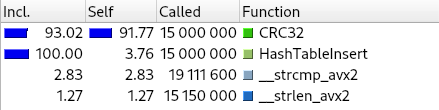
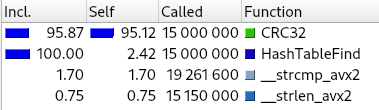
upd readme

diff --git a/hash_table_optimizations/source/hash_table_opt3.c b/hash_table_optimizations/source/hash_table_opt3.c
@@ -4,16 +4,16 @@
 #include <stdlib.h>
 #include <string.h>
 
-#include "../include/hash_table.h"
+#include "../include/hash_table_opt3.h"
 
-static size_t CRC32(char *key, size_t mod);
+static inline size_t CRC32(char *key, size_t mod) __attribute__((always_inline));
 
-static int str_compare(const char *s1, const char *s2);
+static inline int str_compare(const char *s1, const char *s2) __attribute__((always_inline));
 
 static inline struct HashNode *HashNodeCtr(char *key, size_t val) __attribute__((always_inline));
 static inline void HashNodeDtr(struct HashNode *node) __attribute__((always_inline));
 
-static int str_compare(const char *s1, const char *s2)
+static inline int str_compare(const char *s1, const char *s2)
 {
     __m256i mm_s1 = _mm256_loadu_si256((__m256i *)s1);
     __m256i mm_s2 = _mm256_loadu_si256((__m256i *)s2);
@@ -21,7 +21,7 @@ static int str_compare(const char *s1, const char *s2)
 }
 
 
-static size_t CRC32(char *key, size_t mod)
+static inline size_t CRC32(char *key, size_t mod)
 {
     size_t crc = 0;
     asm
@@ -154,20 +154,6 @@ bool HashTableDelete(struct HashTable *table, char *key)
     }
 
     return false;
-}
-
-
-struct HashNode *HashTableFind(struct HashTable *table, char *key)
-{
-    size_t hash = CRC32(key, table->size_max);
-    struct HashList *lst = table->data + hash;
-
-    for(struct HashNode *curr = lst->head->next; curr != NULL; curr = curr->next)
-    {
-        if(str_compare(curr->key, key)) return curr;
-    }
-
-    return NULL;
 }
 
 size_t HashTableGet(struct HashTable *table, char *key)

diff --git a/hash_table_optimizations/source/tester.c b/hash_table_optimizations/source/tester.c
@@ -4,7 +4,11 @@
 #include <stdlib.h>
 #include <string.h>
 
+#ifndef OPT3
 #include "../include/hash_table.h"
+#else
+#include "../include/hash_table_opt3.h"
+#endif
 
 #define NWORDS 150000
 #define NCYCLES 100
@@ -16,25 +20,35 @@ inline int64_t TimeCounter(void) __attribute__((always_inline));
 
 int main(void)
 {
-    char **words = GetWords();
-
     struct HashTable *table = HashTableCtr(TABLE_SZ);
+
+    char **words = GetWords();
+    for(size_t j = 0; j < NWORDS; j++)
+    {
+        volatile bool is_inserted = HashTableInsert(table, words[j], 0);
+    }
+
     int64_t start = TimeCounter();
     for(size_t i = 0; i < NCYCLES; i++)
     {
         for(size_t j = 0; j < NWORDS; j++)
         {
-            volatile bool is_inserted = HashTableInsert(table, words[j], 0);
+            volatile struct HashNode *finded = HashTableFind(table, words[j]);
         }
     }
     int64_t end = TimeCounter();
-    table = HashTableDtr(table);
 
+    fprintf(stderr, "\n\n<time measured: %ld>\n\n", end - start);
 
     for(size_t i = 0; i < NWORDS; i++) free(words[i]);
     free(words);
 
-    fprintf(stderr, "\n\n<time measured: %ld>\n\n", end - start);
+
+    for(size_t i = 0; i < table->size_max; i++)
+    {
+        printf("%zu\n", table->data[i].size);
+    }
+    table = HashTableDtr(table);
 }
 
 inline int64_t TimeCounter(void)

diff --git a/hash_table_optimizations/include/hash_table_opt3.h b/hash_table_optimizations/include/hash_table_opt3.h
@@ -1,0 +1,48 @@
+#ifndef HASH_TABLE_HPP
+#define HASH_TABLE_HPP
+
+#include <stddef.h>
+#include <stdbool.h>
+
+#define MAX_KEY_LEN 32
+
+struct HashNode;
+struct HashList;
+struct HashTable;
+
+struct HashNode
+{
+    char *key;
+    size_t val;
+
+    struct HashNode *next;
+};
+
+struct HashList
+{
+    size_t size;
+    struct HashNode *head;
+};
+
+struct HashTable
+{
+    size_t size;
+    size_t size_max;
+
+    struct HashList *data;
+    struct HashNode *lists;
+};
+
+
+struct HashTable *HashTableCtr(size_t table_sz);
+struct HashTable *HashTableDtr(struct HashTable *table);
+
+
+bool HashTableInsert(struct HashTable *table, char *key, size_t val);
+bool HashTableDelete(struct HashTable *table, char *key);
+
+
+extern struct HashNode *HashTableFind(struct HashTable *table, char *key);
+size_t HashTableGet(struct HashTable *table, char *key);
+
+#endif //HASH_TABLE_HPP

diff --git a/README.md b/README.md
@@ -113,17 +113,17 @@ size_t HashFuncCheckSum(char *key, size_t mod)
 |:-------------------------------------:|:--------------------------------------:|
 |![img](/readme_assets/CheckSumHash.png)|![img](/readme_assets/1CheckSumHash.png)|
 
-Как видно из графика, результаты оказались плохими, так как в нашем датасете не было слов длины даже больше 30, что даёт самое большее возможное значение хеша в ascii('z') * 30 = 3660, в нашем случае вышло около 2000, но приблизив график была обнаружена возможность равномерного распределения ключей по ячейкам таблицы при достаточно малых размерах таблицы:
-
-![img](/readme_assets/CheckSumHash(small).png)
-
-Разброс оказался довольно большим ввиду большой загруженности таблицы, потому был проведён дополнительный тест, где количество ключей было меньше:
+Как видно из графика, результаты оказались плохими, так как в нашем датасете не было слов длины даже больше 30, что даёт самое большее возможное значение хеша в ascii('z') * 30 = 3660, в нашем случае вышло около 2000, но приблизив график была обнаружена возможность равномерного распределения ключей по ячейкам таблицы при достаточно малых размерах таблицы. Поэтому тест был проведён повторно на таблице размера 512 и 1500 словами:
 
 ![img](/readme_assets/1CheckSumHash(small).png)
 
 Уже получше, но в реальности лучше применять другие хеши, так как данная функция работает приемлемо только на маленьких таблицах, что замедлит работу при большом количестве данных.
 
-Полученные дисперсии составили соответственно $709.3$, $7207.5$ и $2.9$.
+Полученные дисперсии составили соответственно:
+| Тест              | Дисперсия |
+|:-----------------:|----------:|
+| Большая таблица   |   $709.3$ |
+| Маленькая таблица |     $2.9$ |
 
 ### RotLHash
 
@@ -243,17 +243,17 @@ CRC32 показала себя лучше других, к тому же она
 
 ## Оптимизирование хеш-таблицы
 
-Для оптимизации хеш-таблицы таблица заполнялась набором из $150 \cdot 10^3$ слов, а затем операция вставки повторялась ещё 99 раз. Это делалось ввиду того, что все хеш-функции имеют схожий цикл, итерирующий элементы списка коллизии, поэтому можно было рассматривать только одну функцию `HashTableInsert`. Размер таблицы брался $2^{18}$.
+Для оптимизации хеш-таблицы таблица заполнялась набором из $150000$ слов, а затем все слова искались в таблице 100 раз. Размер таблицы брался $2^{18}$, так как при таком подходе мы сможем брать остаток от деления с помощью побитового и, а на распределение хеш-функции crc32 это не влияет.
 
-Запускать тесты будем по 3 раза и измерять среднее количество тактов, измеренное при помощи команды `rdtsc`, флаги компилятора при запуске: `-O1 -mavx2`.
+Запускать тесты будем по 3 раза и измерять среднее количество тактов, измеренное при помощи команды `rdtsc`, флаги компилятора при запуске: `-O0 -mavx2`.
 
-Для оптимизации нужно сначала определить, где программа может вести себя неэффективно, для этого использовалась программа `valgrind`, а точнее профилировщик `callgrind`. Для начала профилирования нужно используется команда `valgrind --tool=callgrind --callgrind-out-file=<out file>   --toggle-collect=HashTableInsert <test.out>`, таким образом мы получим сведения о вызовах функции `HashTableInsert` при исполнении программы `<test.out>` и сохраним их в файле `<out file>`, который можно просмотреть с помощью `kcahcegrind`.
+Для оптимизации нужно сначала определить, где программа может вести себя неэффективно, для этого использовалась программа `valgrind`, а точнее профилировщик `callgrind`. Для начала профилирования нужно используется команда `valgrind --tool=callgrind --callgrind-out-file=<out file>   --toggle-collect=HashTableFind <test.out>`, таким образом мы получим сведения о вызовах функции `HashTableInsert` при исполнении программы `<test.out>` и сохраним их в файле `<out file>`, который можно просмотреть с помощью `kcahcegrind`.
 
 Для начала измерим скорость тестирования без оптимизаций.
 
-| $t_1$       | $t_2$       | $t_3$       | $t_{avg}$               |
-|:-----------:|:-----------:|:-----------:|:-----------------------:|
-| 86486763590 | 86398959414 | 86452134454 | $(8645 ± 3) \cdot 10^7$ |
+| $t_1$             | $t_2$             | $t_3$             | $t_{avg}$               |
+|:-----------------:|:-----------------:|:-----------------:|:-----------------------:|
+| $2077 \cdot 10^7$ | $2073 \cdot 10^7$ | $2071 \cdot 10^7$ | $(2074 ± 2) \cdot 10^7$ |
 
 ### Оптимизация 1 этап
 
@@ -267,9 +267,9 @@ CRC32 показала себя лучше других, к тому же она
 
 Таким образом получившееся время:
 
-| $t_1$       | $t_2$       | $t_3$       | $t_{avg}$               |
-|:-----------:|:-----------:|:-----------:|:-----------------------:|
-| 25568977964 | 25487860616 | 25479451576 | $(2551 ± 4) \cdot 10^7$ |
+| $t_1$              | $t_2$              | $t_3$              | $t_{avg}$                  |
+|:------------------:|:------------------:|:------------------:|:--------------------------:|
+| $232.5 \cdot 10^7$ | $233.1 \cdot 10^7$ | $233.3 \cdot 10^7$ | $(232.9 ± 0.3) \cdot 10^7$ |
 
 ### Оптимизация 2 этап
 
@@ -277,12 +277,12 @@ CRC32 показала себя лучше других, к тому же она
 
 ![img](/readme_assets/prof_opt1.png)
 
-Функция, обозначенная как `0x00000000004016d0` это реализованный на ассемблере CRC32, как видно теперь он занимает третью строчку рейтинга. На верхнем месте расположена сама функция вставки, которую оптимизировать не удалось, так как там происходит итерация списка коллизии в цикле, так что конкретно на ассемблере ускорить сильно не удастся, мы лишь усложним код. В конце рейтинга расположены вызовы выделения динамической памяти, которые к сожалению тоже сложно оптимизировать. поэтому нам остается только посмотреть на оптимизации функций `strcmp` и `strlen`, как будет видно дальше оптимизировать `strlen` не придётся, так как она вызывается из под хеш функции, которая претерпит некоторые изменения. Значит остановимся на `strcmp`.
+Функция, обозначенная как `0x00000000004018c0` это реализованный на ассемблере CRC32, как видно теперь он занимает третью строчку рейтинга. На верхнем месте расположена сама функция поиска. Пока остановим наш взгляд на том что ниже. Нам остается только посмотреть на оптимизации функций `strcmp` и `strlen`. Остановимся на `strcmp`.
 
 Очевидно, что `strcmp`, являясь функцией стандартной библиотеки, уже оптимизирована до предела для произвольных строк. Но что если бы строки имели одинаковую длину? Если воспользоваться этим и установить строкам длину 32 байта, то пожертвовав памятью мы можем получить ощутимый прирост скорости, так как такой набор строк можно будет сравнивать с помощью SIMD инструкций без затрат на измерение длины, итерирования по кускам нужной длины и т. п. что занимало бы большую часть времени. Поэтому напишем свою функцию сравнения 32-байтовых строк:
 
 ```C
-static inline int str_compare(const char *s1, const char *s2)
+static int str_compare(const char *s1, const char *s2)
 {
     __m256i mm_s1 = _mm256_loadu_si256((__m256i *)s1);
     __m256i mm_s2 = _mm256_loadu_si256((__m256i *)s2);
@@ -319,23 +319,48 @@ size_t CRC32(char *key, size_t mod)
 
 Таким образом получившееся время:
 
-| $t_1$       | $t_2$       | $t_3$       | $t_{avg}$               |
-|:-----------:|:-----------:|:-----------:|:-----------------------:|
-| 18205353422 | 18197857742 | 18165972051 | $(1819 ± 2) \cdot 10^7$ |
+| $t_1$              | $t_2$              | $t_3$              | $t_{avg}$                  |
+|:------------------:|:------------------:|:------------------:|:--------------------------:|
+| $175.7 \cdot 10^7$ | $177.2 \cdot 10^7$ | $175.4 \cdot 10^7$ | $(176.1 ± 0.7) \cdot 10^7$ |
 
-Общие результаты представлены в таблице:
+### Оптимизация 3 этап
 
-| Оптимизация | время                   | ускорение (абсолютное) | ускорение (относительное) |
-|:-----------:|:-----------------------:|:----------------------:|:-------------------------:|
-| no opt      | $(8645 ± 3) \cdot 10^7$ | 1.000                  | 1.000                     |
-| opt  1      | $(2551 ± 4) \cdot 10^7$ | 3.389 ± 0.006          | 3.389 ± 0.006             |
-| opt  2      | $(1819 ± 2) \cdot 10^7$ | 4.753 ± 0.007          | 1.402 ± 0.004             |
+Просмотрев результаты тестирования новой версии таблицы получим следующие результаты:
 
-Таким образом общее ускорение составило около 4.75.
+![img](/readme_assets/prof_opt2.png)
+
+Как видно, единственное что осталось оптимизировать, это сама функция поиска. Единственное что мы можем с ней сделать это переписать на ассемблере, избавившись от недочётов, которые мог бы допустить компилятор при трансляции. Посмотрим, во что функция компилируется через godbolt:
+
+![img](/readme_assets/godbolt_hash_find-O0.png)
+
+Видно, что компилятор выполняет много операций с памятью, вместо того чтобы использовать регистры, также вызовы crc32 и str_compare можно убрать, поместив их исходный код вместо вызова. Таким образом функция перепишется:
+
+![img](/readme_assets/hash_find_asm.png)
+
+Таким образом получившееся время:
+
+| $t_1$             | $t_2$             | $t_3$             | $t_{avg}$                 |
+|:-----------------:|:-----------------:|:-----------------:|:-------------------------:|
+| $99.0 \cdot 10^7$ | $98.1 \cdot 10^7$ | $99.6 \cdot 10^7$ | $(98.9 ± 0.5) \cdot 10^7$ |
 
 ### Анализ
 
-Мы использовали для оптимизации ассемблерные инструкции, а как известно языки более высокого уровня разработаны как раз из-за их лучшей читаемости, то есть наши оптимизации затрудняют чтение кода. Оценим самый быстрый полученный вариант программы и изначальный при помощи коэффициента $α = 100 \cdot \frac{T_{old}}{T_{new}} * N^{-1}$, где Ν - количество строк, написанных на ассемблере. В нашем случае α = $33.95 ± 0.05$. Таким образом можно сделать вывод, что ассемблерные оптимизации программы оказались довольно удачными.
+Также измерения провелись с оптимизацией компилятора `-O3`.  Общие результаты представлены в таблице:
+
+| Оптимизация | время (-O0)                 | ускорение (абсолютное) | ускорение (относительное) | время (-O3)                | ускорение (абсолютное) | ускорение (относительное) |
+|:-----------:|----------------------------:|-----------------------:|--------------------------:|---------------------------:|-----------------------:|--------------------------:|
+| no opt      | $(2074.0 ± 2.0) \cdot 10^7$ | 1.00                   | 1.00                      | $(830.0 ± 3.0) \cdot 10^7$ | 1.00                   | 1.00                      |
+| opt  1      | $(232.9  ± 0.3) \cdot 10^7$ | 8.91  ± 0.02           | 8.91 ± 0.02               | $(202.6 ± 0.3) \cdot 10^7$ | 4.10 ± 0.02            | 4.10  ± 0.020             |
+| opt  2      | $(176.1  ± 0.7) \cdot 10^7$ | 11.78 ± 0.06           | 1.32 ± 0.01               | $(84.7  ± 0.1) \cdot 10^7$ | 9.80 ± 0.05            | 2.392 ± 0.006             |
+| opt  3      | $(98.9   ± 0.5) \cdot 10^7$ | 21.00 ± 0.10           | 1.78 ± 0.02               | $(84.8  ± 0.3) \cdot 10^7$ | 9.79 ± 0.07            | 0.999 ± 0.005             |
+
+Итогом проделанной работы будем считать версию `opt 2` скомпилированную с флагом `-O3`. Таким образом общее ускорение составило около 9.8. Как оказалось, ускорение за счёт переписывания функции на -O3 не дал никакого прироста. чтобы разобраться почему, нужно посмотреть во что функция компилируется:
+
+![img](/readme_assets/godbolt_hash_find-O3.png)
+
+Функция выглядит почти как наша, что говорит о том, что компилятор смог хорошо оптимизировать данную функцию.
+
+Мы использовали для оптимизации ассемблерные инструкции, а как известно языки более высокого уровня разработаны как раз из-за их лучшей читаемости, то есть наши оптимизации затрудняют чтение кода. Оценим самый быстрый полученный вариант программы и изначальный при помощи коэффициента $α = 100 \cdot \frac{T_{old}}{T_{new}} * N^{-1}$, где Ν - количество строк, написанных на ассемблере. В нашем случае α = $69.9 ± 0.4$. Таким образом можно сделать вывод, что ассемблерные оптимизации программы оказались довольно удачными.
 
 ## Вывод
 
